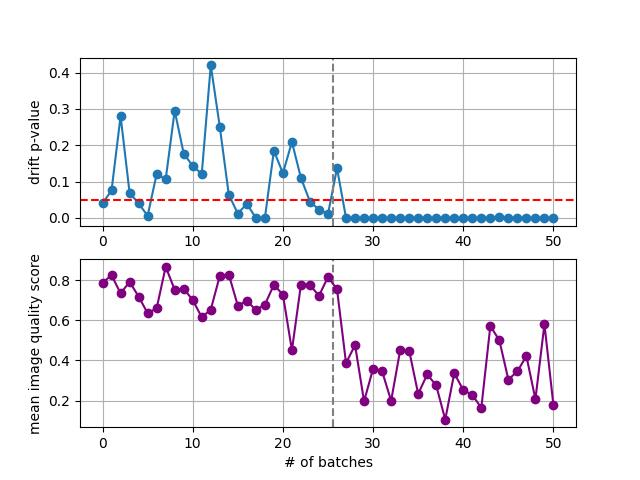
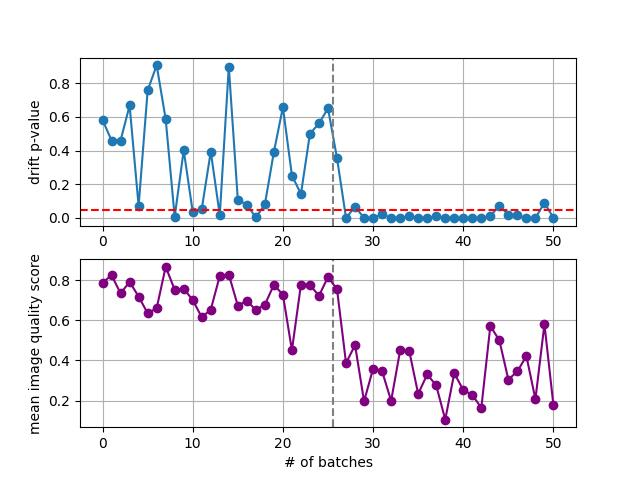
arniqa takes only large images, drift detector uses arniqa pretrained encoder

Changed region(s): [[0.0625, 0.125, 0.9062, 0.4688], [0.0625, 0.2812, 0.125, 0.3438], [0.0625, 0.125, 0.125, 0.1875]]

diff --git a/main.py b/main.py
@@ -17,10 +17,11 @@ import torch.optim as optim
 import logging
 import numpy as np
 from sklearn.metrics import classification_report
-from models_hub import ResNet, SimCLR
+from models_hub import ResNet, SimCLR, ARNIQA
 import csv
 import matplotlib.pyplot as plt
 from dotmap import DotMap
+from copy import deepcopy
 
 logger = logging.getLogger(__name__)
 
@@ -73,7 +74,9 @@ def init_dataloaders(dataset="kadid10k", scenario="SnP", batch_size=32):
         train_paths += prist_train_paths
         test_paths = prist_test_paths + sorted(test_paths, key=lambda x: x[::-1])
 
-        ddetect_paths = [ i for i in train_paths if int(i.split('.')[0][-1]) in [1,2,3]]
+        ddetect_paths = [ 
+            i for i in train_paths if int(i.split('.')[0][-1]) in [1,2,3]
+            ]
         
         train_dataset = kadid10k(train_paths)
         test_dataset = kadid10k(test_paths)
@@ -81,7 +84,8 @@ def init_dataloaders(dataset="kadid10k", scenario="SnP", batch_size=32):
 
     else:
         # Example image paths and labels
-        image_paths = ['drone_factory_frames/frame_0_{}.jpg'.format(i) for i in range(1, 401)]
+        image_paths = [
+            'drone_factory_frames/frame_0_{}.jpg'.format(i) for i in range(1, 401)]
 
         # Split dataset
         train_paths, test_paths = train_test_split(
@@ -93,9 +97,12 @@ def init_dataloaders(dataset="kadid10k", scenario="SnP", batch_size=32):
 
 
 
-    train_loader = DataLoader(train_dataset, batch_size=batch_size, shuffle=True)
-    test_loader = DataLoader(test_dataset, batch_size=batch_size, shuffle=False, drop_last=True)
-    ddetector_loader = DataLoader(drift_dataset, batch_size=batch_size, shuffle=True, drop_last=True)
+    train_loader = DataLoader(
+        train_dataset, batch_size=batch_size, shuffle=True)
+    test_loader = DataLoader(
+        test_dataset, batch_size=batch_size, shuffle=False, drop_last=True)
+    ddetector_loader = DataLoader(
+        drift_dataset, batch_size=batch_size, shuffle=True, drop_last=True)
 
     return train_loader, test_loader, ddetector_loader
 
@@ -110,49 +117,56 @@ def load_arniqa_model(replacement_enc: nn.Module = None,
     #   "spaq", "clive", "koniq10k"
     # ]
 
-    model = torch.hub.load(repo_or_dir="miccunifi/ARNIQA", source="github", model="ARNIQA",
-                        regressor_dataset=regr_dt)    # You can choose any of the available datasets
-    if replacement_enc:
-        model.encoder = replacement_enc
+    # model = torch.hub.load(
+    #     repo_or_dir="miccunifi/ARNIQA", source="github", model="ARNIQA",
+    #     regressor_dataset=regr_dt
+    #     )    # You can choose any of the available datasets
+    model = ARNIQA(replacement_enc, regressor_dataset=regr_dt)
 
 
     return model.eval().to(device)
 
-def load_drd(model_type: str, 
+def load_drd(enc: nn.Module,
              train_dts: DataLoader, 
-             ddetector_dts: DataLoader, 
+             ddetector_dts: DataLoader,
+             model_type: str = "resnet50",  
              num_epochs: int = 100, 
              detector: str = "mmd", 
              dataset: str = "kadid10k", 
              feat_ext_slice: int = -2,
              emb_dim: int = 128):
 
-    if not os.path.exists("drd_{}_{}.pth".format(model_type, dataset)):
-        model = ResNet(embedding_dim=emb_dim, model=model_type, use_norm=False).to(device)
-        ddetect = drift_detector(detector=detector)
-        criterion = nn.CrossEntropyLoss()
-        optimizer = optim.Adam(model.parameters(), lr=0.001)
-        for _ in tqdm(range(num_epochs), desc="Epoch", position=0):
-            model.train()
-            running_loss = 0.0
-            for _, images, labels in tqdm(train_dts, desc="batch", position=1, leave=False):
-                optimizer.zero_grad()
-                _, outputs = model(images.to(device))
-                loss = criterion(outputs.to(device), labels.to(device))
-                loss.backward()
-                optimizer.step()
-                running_loss += loss.item()
-            logger.info(f"Loss: {running_loss/len(train_dts):.4f}")
+    # if not os.path.exists("drd_{}_{}.pth".format(model_type, dataset)):
+    #     model = ResNet(
+    #         embedding_dim=emb_dim, model=model_type, use_norm=False).to(device)
+    #     ddetect = drift_detector(detector=detector)
+    #     criterion = nn.CrossEntropyLoss()
+    #     optimizer = optim.Adam(model.parameters(), lr=0.001)
+    #     for _ in tqdm(range(num_epochs), desc="Epoch", position=0):
+    #         model.train()
+    #         running_loss = 0.0
+    #         for _, images, labels in tqdm(train_dts,desc="#b",position=1,leave=False):
+    #             optimizer.zero_grad()
+    #             _, outputs = model(images.to(device))
+    #             loss = criterion(outputs.to(device), labels.to(device))
+    #             loss.backward()
+    #             optimizer.step()
+    #             running_loss += loss.item()
+    #         logger.info(f"Loss: {running_loss/len(train_dts):.4f}")
 
-        torch.save(model.state_dict(), "drd_{}_{}.pth".format(model_type, dataset))
+    #     torch.save(model.state_dict(), "drd_{}_{}.pth".format(model_type, dataset))
 
-    else:
-        logger.info("load from dir")
-        model = ResNet(embedding_dim=emb_dim, model=model_type, use_norm=False).to(device)
-        model.load_state_dict(
-            torch.load("drd_{}_{}.pth".format(model_type, dataset))
-            )
-        model = model.to(device)
+    # else:
+        # logger.info("load from dir")
+        # model = ResNet(
+        #     embedding_dim=emb_dim, model=model_type, 
+        #     use_norm=False).to(device)
+        # model.load_state_dict(
+        #     torch.load("drd_{}_{}.pth".format(model_type, dataset))
+        #     )
+        # model = model.to(device)
+
+    model = enc.to(device).eval()
 
     ddetect = drift_detector()
 
@@ -168,7 +182,7 @@ def load_drd(model_type: str,
         inp = feat_ext(im.to(device)).reshape(im.shape[0], -1)
         ddetect.fit(inp)
 
-    return model.eval(), ddetect, feat_ext
+    return model, ddetect, feat_ext
 
 
     
@@ -176,10 +190,10 @@ def load_drd(model_type: str,
 
 
 
-def compute_quality_score(model, img, img_ds):
+def compute_quality_score(model, img):
     """Compute the quality score of the image."""
     with torch.no_grad(), torch.cuda.amp.autocast():
-        score = model(img, img_ds, return_embedding=False, scale_score=True)
+        score = model(img, return_embedding=False, scale_score=True)
 
     return score
 
@@ -194,11 +208,14 @@ if __name__ == "__main__":
 
 
     model_arniqa = load_arniqa_model().to(device)
-    model_drd, ddetect, feat_ext = load_drd(detector="mmd", model_type="resnet18",
-        train_dts=train, ddetector_dts=ddet, dataset=dataset, feat_ext_slice=-1, emb_dim=2
-        )
 
-    
+    model_drd, ddetect, feat_ext = load_drd(
+        enc=deepcopy(model_arniqa.encoder),
+        train_dts=train, ddetector_dts=ddet, 
+        dataset=dataset, feat_ext_slice=-2, 
+        emb_dim=128
+        )
+     
     model_drd.to(device)
     feat_ext.to(device)
 
@@ -220,7 +237,7 @@ if __name__ == "__main__":
 
             _, outputs = model_drd(images.to(device))
             arniqa_outputs = compute_quality_score(
-                model_arniqa, bimages.to(device), images.to(device)
+                model_arniqa, bimages.to(device),
                 )
             
             # ddetect.fit(bimages.shape[0])

diff --git a/models_hub.py b/models_hub.py
@@ -7,6 +7,7 @@ from torchvision.models import resnet18, resnet50
 from dotmap import DotMap
 from losses import nt_xent_loss
 from typing import Tuple
+import torchvision.transforms.v2 as T
 
 dependencies = ["torch"]
 
@@ -70,7 +71,10 @@ class ResNet(nn.Module):
         pretrained (bool): whether to use pretrained weights
         use_norm (bool): whether to normalize the embeddings
     """
-    def __init__(self, model: str, embedding_dim: int, pretrained: bool = True, use_norm: bool = True):
+    def __init__(self, model: str = "resnet50", 
+                 embedding_dim: int = 128, pretrained: bool = True, 
+                 use_norm: bool = True):
+        
         super(ResNet, self).__init__()
 
         self.pretrained = pretrained
@@ -92,7 +96,6 @@ class ResNet(nn.Module):
             else:
                 weights = None
             self.model = resnet18(weights=weights)
-
 
         self.feat_dim = self.model.fc.in_features
         self.model = nn.Sequential(*list(self.model.children())[:-1])
@@ -168,20 +171,27 @@ class ARNIQA(nn.Module):
     function allows returning the concatenated embeddings of the image at full-scale and half-scale. Also, the model can
     return the unscaled score (i.e. in the range of the training dataset).
     """
-    def __init__(self, regressor_dataset: str = "kadid10k"):
+    def __init__(self, enc, regressor_dataset: str = "kadid10k"):
         super(ARNIQA, self).__init__()
         assert regressor_dataset in available_datasets, f"parameter training_dataset must be in {available_datasets}"
         self.regressor_dataset = regressor_dataset
-        self.encoder = ResNet(embedding_dim=128, pretrained=True, use_norm=True)
-        self.encoder.load_state_dict(torch.hub.load_state_dict_from_url(f"{base_url}/ARNIQA.pth", progress=True,
-                                                                      map_location="cpu"))
+        if enc==None:
+            self.encoder = ResNet(embedding_dim=128, pretrained=True, use_norm=True)
+            self.encoder.load_state_dict(torch.hub.load_state_dict_from_url(f"{base_url}/ARNIQA.pth", progress=True,
+                                                                        map_location="cpu"))
+            
+        else:
+            self.encoder = enc
         self.encoder.eval()
         self.regressor: nn.Module = torch.hub.load_state_dict_from_url(f"{base_url}/regressor_{regressor_dataset}.pth",
                                                                         progress=True, map_location="cpu")
         self.regressor.eval()
+        self.mini = T.Compose([T.Resize((128,128))])
 
-    def forward(self, img, img_ds, return_embedding: bool = False, scale_score: bool = True):
+    def forward(self, img, return_embedding: bool = False, scale_score: bool = True):
+        
         f, _ = self.encoder(img)
+        img_ds = self.mini(img) 
         f_ds, _ = self.encoder(img_ds)
         f_combined = torch.hstack((f, f_ds))
         score = self.regressor(f_combined)

diff --git a/dataloaders.py b/dataloaders.py
@@ -21,8 +21,11 @@ dstr = [
     'white_noise', 'white_noise_cc'
 ]
 
-distortion_labels = { i:d for i, d in enumerate(dstr)}
+distortion_labels = { i:d for i, d in enumerate(dstr,1)}
+distortion_labels["OK"]=0
+
 distortion_transforms = { d:getattr(dstr_all, d) for d in dstr}
+
 
 class VideoFootage(Dataset):
     def __init__(self, image_paths: str, scenario: str = None, display_im: bool = False):
@@ -44,7 +47,7 @@ class VideoFootage(Dataset):
         image = Image.open(self.image_paths[idx])
         
         if self.scenario ==None:
-            n = np.random.choice(list(self.labels.keys()), 1)[0]
+            random_label = np.random.choice(list(self.labels.keys()), 1)[0]
         else:
             assert self.scenario in list(self.labels.keys())
             n = self.scenario if idx>self.__len__()//2 else "normal"
@@ -89,7 +92,7 @@ class kadid10k(Dataset):
         im_path = self.image_paths[idx]
 
         if len(im_path.replace(".png", "").split("/")[-1])==3:
-            label = 0
+            label = 1
         else:
             quality = int(im_path.split('.')[0][-1])
             # distortion_type = int(im_path.replace(".png", "").split("_")[-2])
@@ -97,10 +100,11 @@ class kadid10k(Dataset):
             #     distortion_type = int(distortion_type[1])
             # else:
             #     distortion_type = int(distortion_type)        
-            if quality in [1,2,3]:
-                label = 0
-            else:
-                label = 1
+            # if quality in [1,2,3]:
+            #     label = 0
+            # else:
+            #     label = 1
+            label = quality
 
         big_image = Image.open(im_path)
 

diff --git a/drift_detector.py b/drift_detector.py
@@ -11,7 +11,7 @@ class drift_detector(nn.Module):
             self.detector = KSDriftDetector(return_p_value=True)
 
     def fit(self, inp):
-        self.detector.fit(inp.long())
+        self.detector.fit(inp)
 
     def forward(self, y_pred):
         return self.detector.compute_p_value(y_pred)
